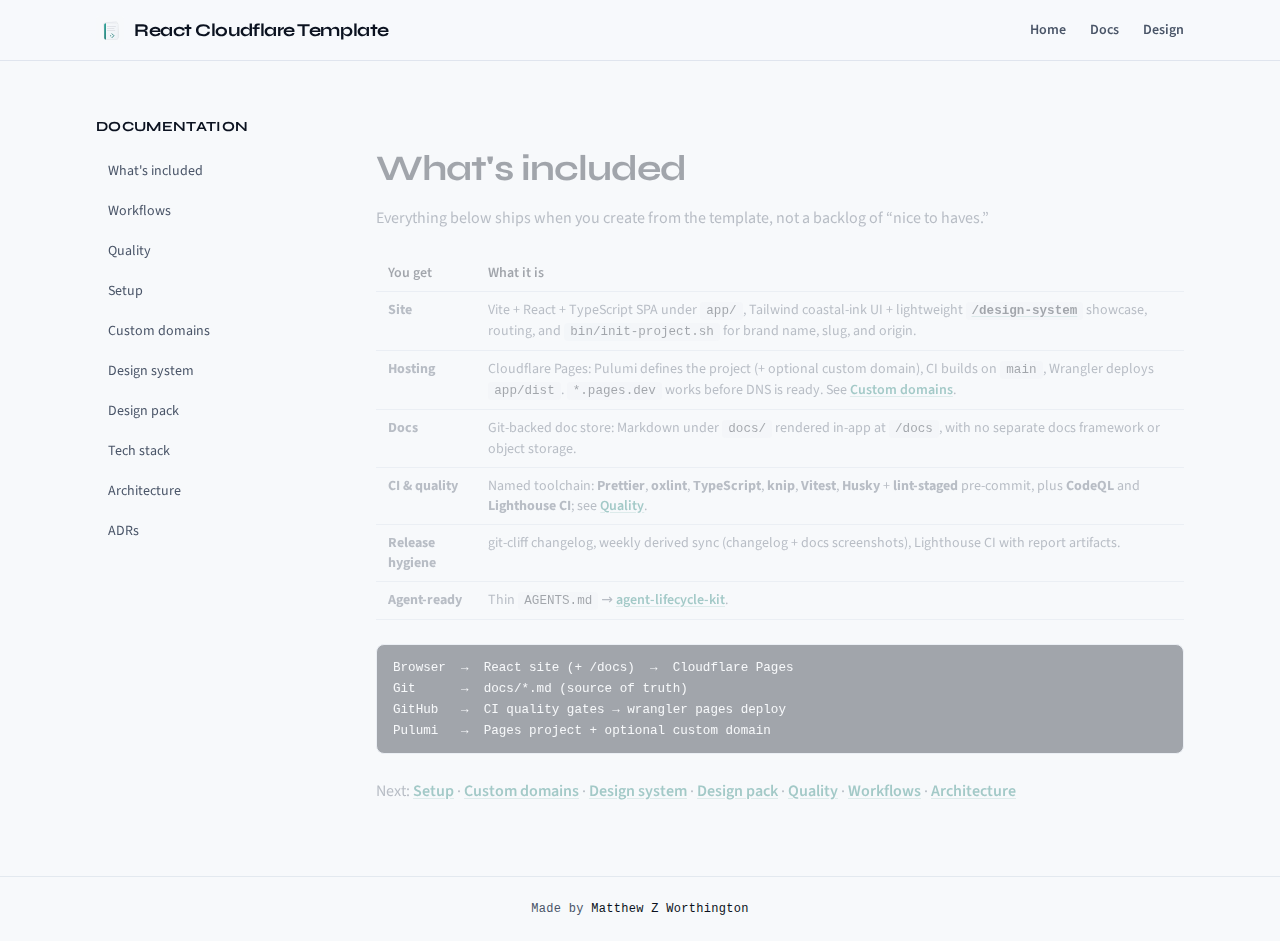
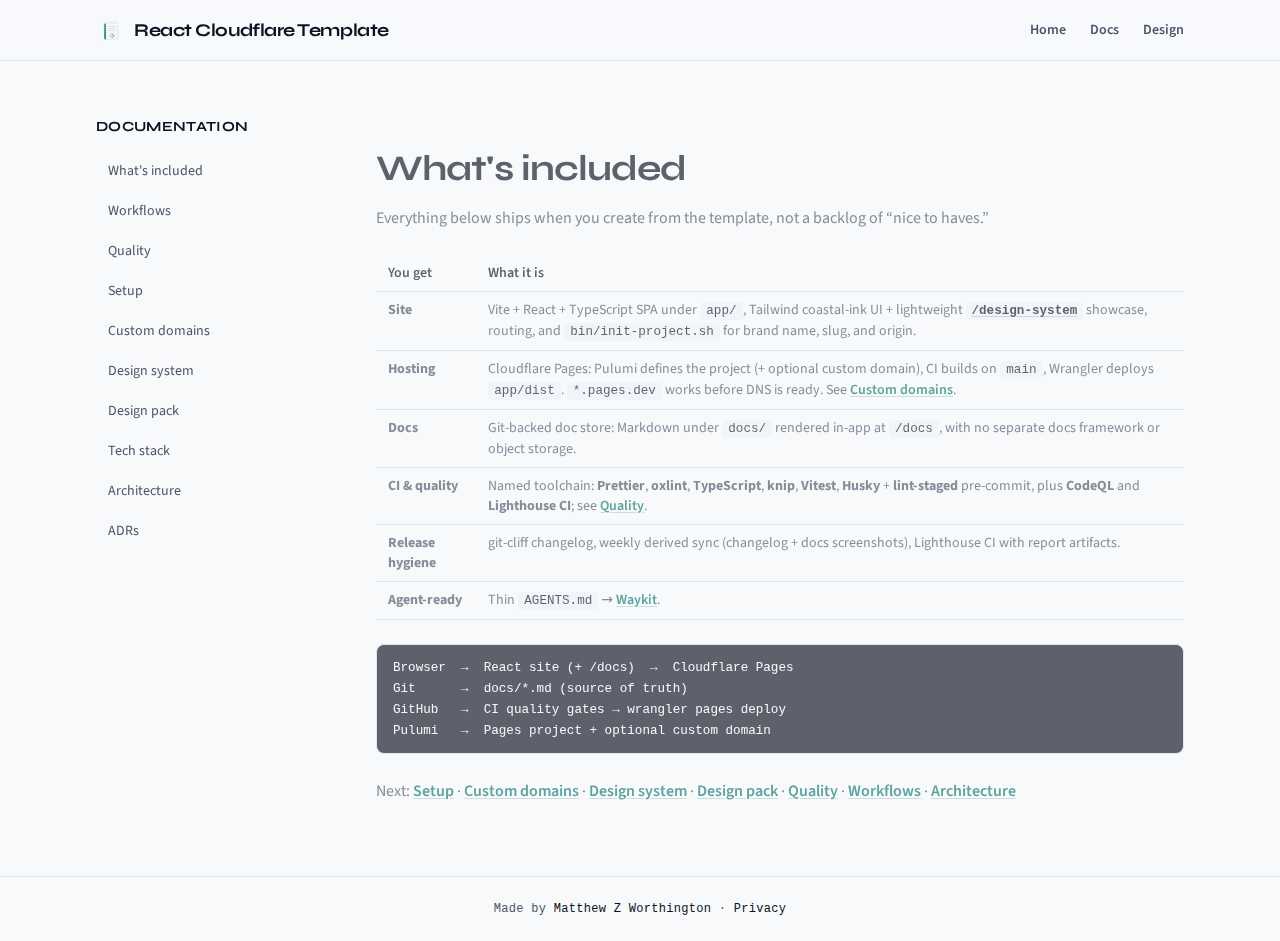
chore(artifacts): sync derived outputs

diff --git a/CHANGELOG.md b/CHANGELOG.md
@@ -1,5 +1,61 @@
 # Changelog
 
+## 2026-09-06
+
+### 🧰 Maintenance & Dependencies
+
+- *(deps)* Bump @pulumi/pulumi in /infra/cloudflare (#26)
+- *(deps-dev)* Bump @types/node in /infra/cloudflare (#25)
+- *(deps-dev)* Bump @types/react-dom from 19.2.4 to 19.2.5 in /app (#24)
+- *(deps-dev)* Bump oxlint from 1.77.0 to 1.80.0 in /app (#23)
+- *(deps-dev)* Bump vite from 8.2.1 to 8.2.2 in /app (#21)
+- *(deps-dev)* Bump wrangler from 4.120.0 to 4.126.0 in /app (#15)
+- *(deps)* Bump mermaid from 11.12.0 to 11.17.2 in /app (#20)
+- *(deps)* Bump @pulumi/cloudflare in /infra/cloudflare (#17)
+- *(deps-dev)* Bump vitest from 4.1.10 to 4.1.11 in /app (#9)
+- *(deps-dev)* Bump knip from 6.32.0 to 6.34.0 in /app (#22)
+
+## 2026-09-03
+
+### 🚀 Features
+
+- Integrate PostHog for analytics tracking and add privacy routing
+
+### 🐛 Bug Fixes
+
+- Skip core-js postinstall and format PostHog secrets docs
+
+### 🧰 Maintenance & Dependencies
+
+- Update documentation for Waykit integration and clarify setup instructions
+- Update .gitignore and AGENTS.md for MCP configuration and workspace clarity
+- Add pulumi to toolchain installation in mise.toml
+- Update core-js setting in pnpm-workspace.yaml to false
+
+## 2026-09-02
+
+### 🧰 Maintenance & Dependencies
+
+- Update references from agent-lifecycle-kit to Waykit in documentation and setup scripts
+
+### 🎨 Styling
+
+- Align Waykit table cells with Prettier
+
+## 2026-09-01
+
+### 🚀 Features
+
+- *(cloudflare)* Add optional Web Analytics integration and CI injection
+
+### ⚙ Refactoring & Performance
+
+- *(cloudflare)* Remove CI injection for Web Analytics and update documentation for zone ownership
+
+### 🧰 Maintenance & Dependencies
+
+- Dependabot pins
+
 ## 2026-08-10
 
 ### 🚀 Features
